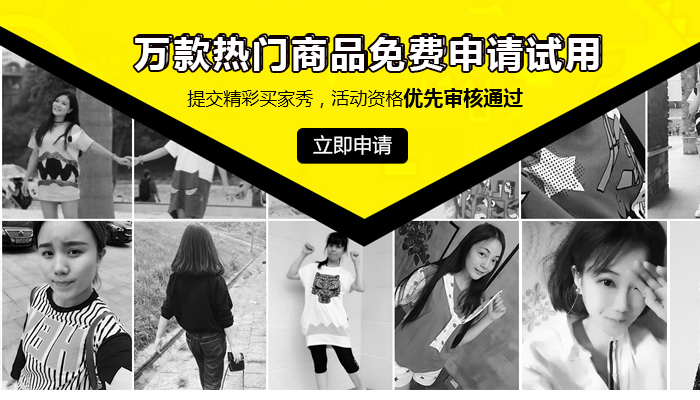
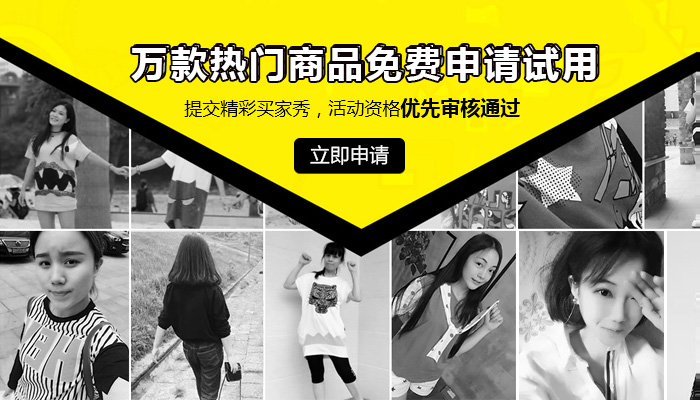
首页样式修改

diff --git a/src/view/Home.vue b/src/view/Home.vue
@@ -181,80 +181,85 @@
       <div class="container">
         <div class="buyer-xiu clear">
           <div class="left-ctt left">
-            <div class="title clear">
-              <img width="190px" height="25px" src="~assets/img/home/top_xiu.png" alt="">
-              <span class="right cursor-p" @click="getMoreBuyerShow = true">更多买家秀...</span>
-            </div>
-            <ul class="clear" :class="[leftSlider ? 'slider-top-active-left' : 'slider-top-default-left']"
-                @mouseover="clearLeftSliderFunc()" @mouseleave="leftSliderFunc()">
-              <li v-for="item in buyerShowList" class="content cursor-p left pos-rel" v-show="item.trialReportImages">
-                <router-link :to="{path:'/trial-report',query:{q:encryptionId(item.showkerId),showReportDesc:true,id:encryptionId(item.id)}}">
-                  <div style="width: 200px;height: 260px;overflow: hidden; display:table-cell;vertical-align:middle;text-align: center;" >
-                    <img :src="item.trialReportImages" alt="" width="200" style="max-height: 260px">
-                  </div>
-                  <!-- <p class=" top-heart clear" >
-                     <img class="left " style="vertical-align: middle " width="15" height="15" src="~assets/img/home/heart.png" alt="">
-                     <span class="left" style="font-size: 14px">赞(12000)</span>
-                   </p>-->
-                  <p class="price clear">
-                    <span class="left">{{item.task.taskName.substring(0,12)}}</span>
-                    <span class="right pl-10">￥{{item.task.itemPrice/100}}</span>
-                  </p>
-                  <p class="mt-10 description pos-rel">
-                    <span class="double-question-mark"></span>
-                    <span style="color: #000">{{item.trialReportText.substring(0,20)}}</span>
-                  </p>
-                  <div class="clear bottom mt-20">
-                    <img class="left" width="48" height="48" src="~assets/img/common/avatar/tx1.png" alt="">
-                    <div class="left ml-10" style="margin-top: 5px">
-                      <p style="color: #000">{{item.showkerPhone}}</p>
-                      <!--<p class="click-good">
-                        <Icon class="icon-heart" type="heart"></Icon>
-                        <span>赞（12000）</span>
-                      </p>-->
+            <div style="overflow: hidden">
+              <div class="title clear">
+                <img  style="vertical-align: middle" src="~assets/img/home/top_mjx.png" alt="">
+                <span class="ml-10" style="font-size: 13px;color: #999;transform: translateY(2px)">给你最精彩</span>
+                <span class="right cursor-p" @click="getMoreBuyerShow = true">更多买家秀...</span>
+              </div>
+              <ul class="clear" :class="[leftSlider ? 'slider-top-active-left' : 'slider-top-default-left']"
+                  @mouseover="clearLeftSliderFunc()" @mouseleave="leftSliderFunc()">
+                <li v-for="item in buyerShowList" class="content cursor-p left pos-rel" v-show="item.trialReportImages">
+                  <router-link :to="{path:'/trial-report',query:{q:encryptionId(item.showkerId),showReportDesc:true,id:encryptionId(item.id)}}">
+                    <div class="masterImgBox" >
+                      <img :src="item.trialReportImages" alt="" width="200" style="max-height: 255px">
                     </div>
-                  </div>
-                </router-link>
-              </li>
-            </ul>
+                    <!-- <p class=" top-heart clear" >
+                       <img class="left " style="vertical-align: middle " width="15" height="15" src="~assets/img/home/heart.png" alt="">
+                       <span class="left" style="font-size: 14px">赞(12000)</span>
+                     </p>-->
+                    <p class="price clear">
+                      <span class="left">{{item.task.taskName.substring(0,12)}}</span>
+                      <span class="right pl-10">￥{{item.task.itemPrice/100}}</span>
+                    </p>
+                    <p class="mt-10 description pos-rel">
+                      <span class="double-question-mark"></span>
+                      <span style="color: #000">{{item.trialReportText.substring(0,20)}}</span>
+                    </p>
+                    <div class="clear bottom mt-20">
+                      <img class="left" width="48" height="48" src="~assets/img/common/avatar/tx1.png" alt="">
+                      <div class="left ml-10" style="margin-top: 5px">
+                        <p style="color: #000">{{item.showkerPhone}}</p>
+                        <!--<p class="click-good">
+                          <Icon class="icon-heart" type="heart"></Icon>
+                          <span>赞（12000）</span>
+                        </p>-->
+                      </div>
+                    </div>
+                  </router-link>
+                </li>
+              </ul>
+            </div>
           </div>
           <div class="right-ctt right ml-10">
-            <ul :class="[leftTopSlider ? 'slider-top-active-right' : 'slider-top-default-right']"
-                @mouseover="clearLeftTopSliderFunc()" @mouseleave="leftTopSliderFunc()">
-              <li v-for="taskTopLeft in taskTopLeftList">
-                <router-link :to="{path:'/task-details', query:{q: encryptionId(taskTopLeft.task.id)}}"
-                             :title="taskTopLeft.task.taskName" class="block">
-                  <div class="left img-box">
-                    <img :src="taskTopLeft.task.taskMainImage + '!thum54'" alt="" width="54" height="54">
-                  </div>
-                  <div class="left text-box ml-10">
-                    <p>秀客{{taskTopLeft.showkerPhone}}免费领取了</p>
-                    <p>
-                      价值<span class="text ml-5">￥{{taskTopLeft.task.itemPrice / 100}}</span> 的宝贝
-                    </p>
-                    <span style="color: #999;">
+            <div style="overflow: hidden">
+              <ul :class="[leftTopSlider ? 'slider-top-active-right' : 'slider-top-default-right']"
+                  @mouseover="clearLeftTopSliderFunc()" @mouseleave="leftTopSliderFunc()">
+                <li v-for="taskTopLeft in taskTopLeftList">
+                  <router-link :to="{path:'/task-details', query:{q: encryptionId(taskTopLeft.task.id)}}"
+                               :title="taskTopLeft.task.taskName" class="block">
+                    <div class="left img-box">
+                      <img :src="taskTopLeft.task.taskMainImage + '!thum54'" alt="" width="54" height="54">
+                    </div>
+                    <div class="left text-box ml-10">
+                      <p>秀客{{taskTopLeft.showkerPhone}}免费领取了</p>
+                      <p>
+                        价值<span class="text ml-5">￥{{taskTopLeft.task.itemPrice / 100}}</span> 的宝贝
+                      </p>
+                      <span style="color: #999;">
                 {{
-                      (new Date() - taskTopLeft.createTime) / 1000 < 60 ? 1 :
-                        (new Date() - taskTopLeft.createTime) / 1000 / 60 < 60 ? parseInt((new Date() - taskTopLeft.createTime) / 1000 / 60) :
-                          (new Date() - taskTopLeft.createTime) / 1000 / 60 / 60 / 24 < 1 ? parseInt((new Date() - taskTopLeft.createTime) / 1000 / 60 / 60) :
-                            parseInt((new Date() - taskTopLeft.createTime) / 1000 / 60 / 60 / 24)
-                      }}
+                        (new Date() - taskTopLeft.createTime) / 1000 < 60 ? 1 :
+                          (new Date() - taskTopLeft.createTime) / 1000 / 60 < 60 ? parseInt((new Date() - taskTopLeft.createTime) / 1000 / 60) :
+                            (new Date() - taskTopLeft.createTime) / 1000 / 60 / 60 / 24 < 1 ? parseInt((new Date() - taskTopLeft.createTime) / 1000 / 60 / 60) :
+                              parseInt((new Date() - taskTopLeft.createTime) / 1000 / 60 / 60 / 24)
+                        }}
               </span>
-                    <span style="color: #999;"
-                          v-if="(new Date() -taskTopLeft.createTime)/1000/60 < 60 || (new Date() -taskTopLeft.createTime)/1000 < 60">
+                      <span style="color: #999;"
+                            v-if="(new Date() -taskTopLeft.createTime)/1000/60 < 60 || (new Date() -taskTopLeft.createTime)/1000 < 60">
                 分钟前
               </span>
-                    <span style="color: #999;"
-                          v-if="(new Date() -taskTopLeft.createTime)/1000/60/60/24 < 1 && (new Date() -taskTopLeft.createTime)/1000/60 >= 60">
+                      <span style="color: #999;"
+                            v-if="(new Date() -taskTopLeft.createTime)/1000/60/60/24 < 1 && (new Date() -taskTopLeft.createTime)/1000/60 >= 60">
                 小时前
               </span>
-                    <span style="color: #999;" v-if="(new Date() -taskTopLeft.createTime)/1000/60/60/24 >= 1">
+                      <span style="color: #999;" v-if="(new Date() -taskTopLeft.createTime)/1000/60/60/24 >= 1">
                 天前
               </span>
-                  </div>
-                </router-link>
-              </li>
-            </ul>
+                    </div>
+                  </router-link>
+                </li>
+              </ul>
+            </div>
           </div>
         </div>
       </div>
@@ -915,7 +920,17 @@
     .buyer-xiu {
       margin: 10px auto 10px auto;
       overflow: hidden;
+      .masterImgBox{
+        width: 200px;
+        height: 260px;
+        overflow: hidden;
+        display:table-cell;
+        vertical-align:middle;
+        text-align: center;
+        background-color:#F1F2F6;
+      }
       .left-ctt {
+        padding: 0 10px;
         background-color: #fff;
         width: 900px;
         height: 500px;
@@ -924,14 +939,13 @@
           padding: 15px 10px 10px 10px;
           border-bottom: 1px solid #F6F6F6;
           img{
-            height: 25px;
           }
         }
         ul{
           padding: 10px 10px;
           width: 10000px;
           li{
-            padding: 0 10px 10px 10px;
+            padding: 0px 20px 0 0 ;
             width: 220px;
             margin-bottom: 52px;
             .top-heart{
@@ -951,9 +965,9 @@
               position: absolute;
               width: 200px;
               top: 230px;
+              left: 0;
               height: 30px;
               line-height: 30px;
-              left: 10px;
               padding: 0px 3px;
               color: #fff;
               background-color: rgba(0,0,0,0.5);
@@ -994,12 +1008,16 @@
         background-color: #fff;
         width: 290px;
         height: 500px;
+        padding: 10px 0px;
         ul {
           padding: 15px 20px;
           li {
-            margin-bottom: 19px;
             overflow: hidden;
-            height: 62px;
+            height: 80px;
+            /*padding:  0 0 20px 0;*/
+            /*background-color: blue;*/
+            /*border-top: 1px solid blue;*/
+            /*border-bottom: 1px solid blue;*/
             div.text-box {
               p {
                 font-size: 14px;
@@ -1030,7 +1048,7 @@
           font-size: 16px;
         }
         ul {
-         padding: 10px 10px;
+         padding: 10px 0px;
           li {
             padding: 7px 0px;
             text-align: center;
@@ -1044,8 +1062,7 @@
             color: $mainColor;
           }
           li:hover{
-            background-color: $mainColor;
-            color: #fff;
+            background-color: #ffe4dc;
           }
         }
       }
@@ -1216,7 +1233,7 @@
   }
 
   .slider-top-active-right {
-    margin-top: -81px;
+    margin-top: -80px;
     animation: sliderTopRight 1s;
   }
 
@@ -1229,7 +1246,7 @@
       margin-top: 0;
     }
     100% {
-      margin-top: -81px;
+      margin-top: -80px;
     }
   }
 
